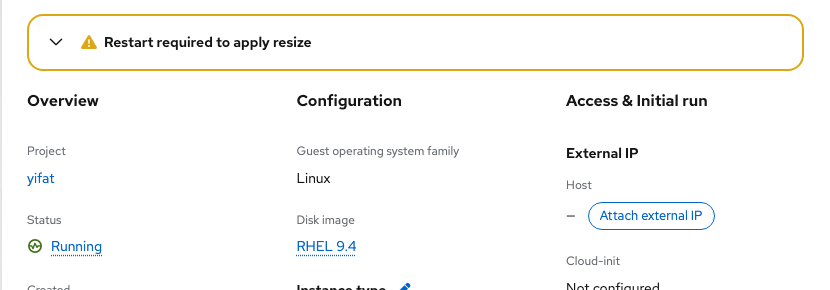
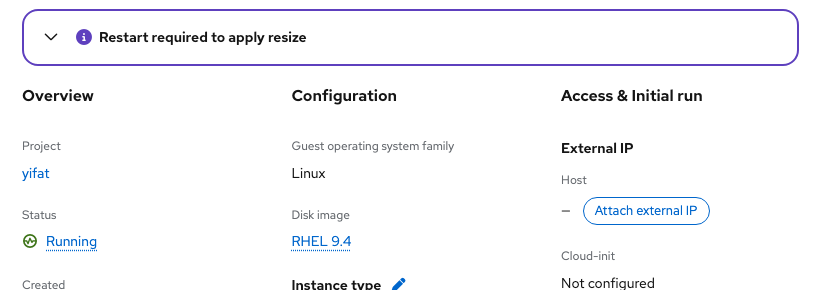
OSAC-4281: use collapsed info alert for scheduled resize
Assisted-by: Cursor <cursoragent@cursor.com>

diff --git a/apps/app-frontend/public/vmaas-ux-prototype.html b/apps/app-frontend/public/vmaas-ux-prototype.html
@@ -1311,9 +1311,6 @@
     .vm-restart-required {
       margin: 0 0 20px;
     }
-    .vm-restart-required .pf-v6-c-alert {
-      --pf-v6-c-alert--m-warning--BorderTopColor: #f0ab00;
-    }
     .vm-resize-scheduled {
       margin-inline-start: 8px;
       width: max-content;
@@ -8913,7 +8910,7 @@
         title: 'Restart required',
         message: message || existing?.message || 'Changes apply after the virtual machine is restarted.',
         changes,
-        expanded: true,
+        expanded: false,
       };
       if (!Array.isArray(vm.conditions)) vm.conditions = [];
       if (!vm.conditions.some(c => /RestartRequired/i.test(c))) {
@@ -8942,7 +8939,7 @@
     function vmRestartRequiredAlertHtml(vm) {
       const rr = vm?.restartRequired;
       if (!rr || !Array.isArray(rr.changes) || !rr.changes.length) return '';
-      const expanded = rr.expanded !== false;
+      const expanded = rr.expanded === true;
       const msg = String(rr.message || 'Changes apply after the virtual machine is restarted.').replace(/</g, '&lt;');
       const changes = rr.changes.map(c => {
         const section = String(c.section || 'Details').replace(/</g, '&lt;');
@@ -8955,7 +8952,7 @@
       }).join('');
       return `
         <div class="vm-restart-required" id="vm-restart-required">
-          <div class="pf-v6-c-alert pf-m-inline pf-m-warning pf-m-expandable ${expanded ? 'pf-m-expanded' : ''}" role="status">
+          <div class="pf-v6-c-alert pf-m-inline pf-m-info pf-m-expandable ${expanded ? 'pf-m-expanded' : ''}" role="status">
             <div class="pf-v6-c-alert__toggle">
               <button class="pf-v6-c-button pf-m-plain" type="button" data-vm-restart-alert-toggle
                 aria-label="Restart required details" aria-expanded="${expanded}" aria-controls="vm-restart-required-body">
@@ -8966,7 +8963,7 @@
                 </span></span>
               </button>
             </div>
-            <div class="pf-v6-c-alert__icon"><i class="fa-solid fa-triangle-exclamation" aria-hidden="true"></i></div>
+            <div class="pf-v6-c-alert__icon"><i class="fa-solid fa-circle-info" aria-hidden="true"></i></div>
             <h4 class="pf-v6-c-alert__title">${rr.changes.some(c => c.label === 'Instance type') ? 'Restart required to apply resize' : 'Restart required'}</h4>
             <div class="pf-v6-c-alert__description" id="vm-restart-required-body" ${expanded ? '' : 'hidden'}>
               <div class="vm-restart-required__body">

diff --git a/docs/osac-4281-vm-resize-handoff.md b/docs/osac-4281-vm-resize-handoff.md
@@ -19,7 +19,7 @@ The modal has a required typeahead Instance type field and Save/Cancel actions. 
 
 ## After Save
 
-A success toast confirms the saved request. For a Running or Paused VM that requires restart, show a persistent warning at the top of VM Overview: **Restart required to apply resize**. Keep the VM's **active** instance type, vCPUs, and memory as the main configuration values, including the CPU and memory totals in Utilization. Under **Scheduled changes**, show current → requested values for instance type, vCPUs, and memory without repeating “Configuration” before each field. Use the PF6 expandable alert, open by default. Collapsing hides the description and change list while the warning title stays visible. The alert re-expands when scheduled changes are updated. A Restart action in the warning is optional and depends on the supported VM action.
+A success toast confirms the saved request. For a Running or Paused VM that requires restart, show a persistent PF6 info notification at the top of VM Overview: **Restart required to apply resize**. Keep the VM's **active** instance type, vCPUs, and memory as the main configuration values, including the CPU and memory totals in Utilization. Under **Scheduled changes**, show current → requested values for instance type, vCPUs, and memory without repeating “Configuration” before each field. Use the expandable alert, collapsed by default to save vertical space. The title stays visible; expanding reveals the description and change list. New scheduled changes reset it to collapsed so the default layout remains compact. A Restart action in the notification is optional and depends on the supported VM action.
 
 On the VM list, retain the normal power status (for example, Running). Add a separate, neutral, outlined PatternFly 6 **Resize scheduled** label beside the VM name. Its tooltip says, “Restart the VM to apply the new CPU and memory.” Clear the warning and label only when the new configuration is confirmed active. A Stopped VM's new size applies on its next start.
 
@@ -35,13 +35,13 @@ The API must expose or allow derivation of both active and requested configurati
 
 ![VM table row with Resize scheduled badge](screenshots/vm-resize/resize-scheduled-table.png)
 
-**Restart required warning, expanded by default, and active configuration on VM Overview.**
+**Expanded info notification showing scheduled changes and the active configuration on VM Overview.**
 
-![Resize warning with current and after-restart values](screenshots/vm-resize/restart-required-overview.png)
+![Resize info notification with current and after-restart values](screenshots/vm-resize/restart-required-overview.png)
 
-**Collapsed warning.** The title remains visible, and the toggle reopens the scheduled changes.
+**Default collapsed info notification.** The title remains visible, and the toggle opens the scheduled changes.
 
-![Collapsed resize warning with persistent title](screenshots/vm-resize/restart-required-collapsed.png)
+![Collapsed resize info notification with persistent title](screenshots/vm-resize/restart-required-collapsed.png)
 
 **Utilization before restart shows the active 1 vCPU and 2 GiB.**
 
